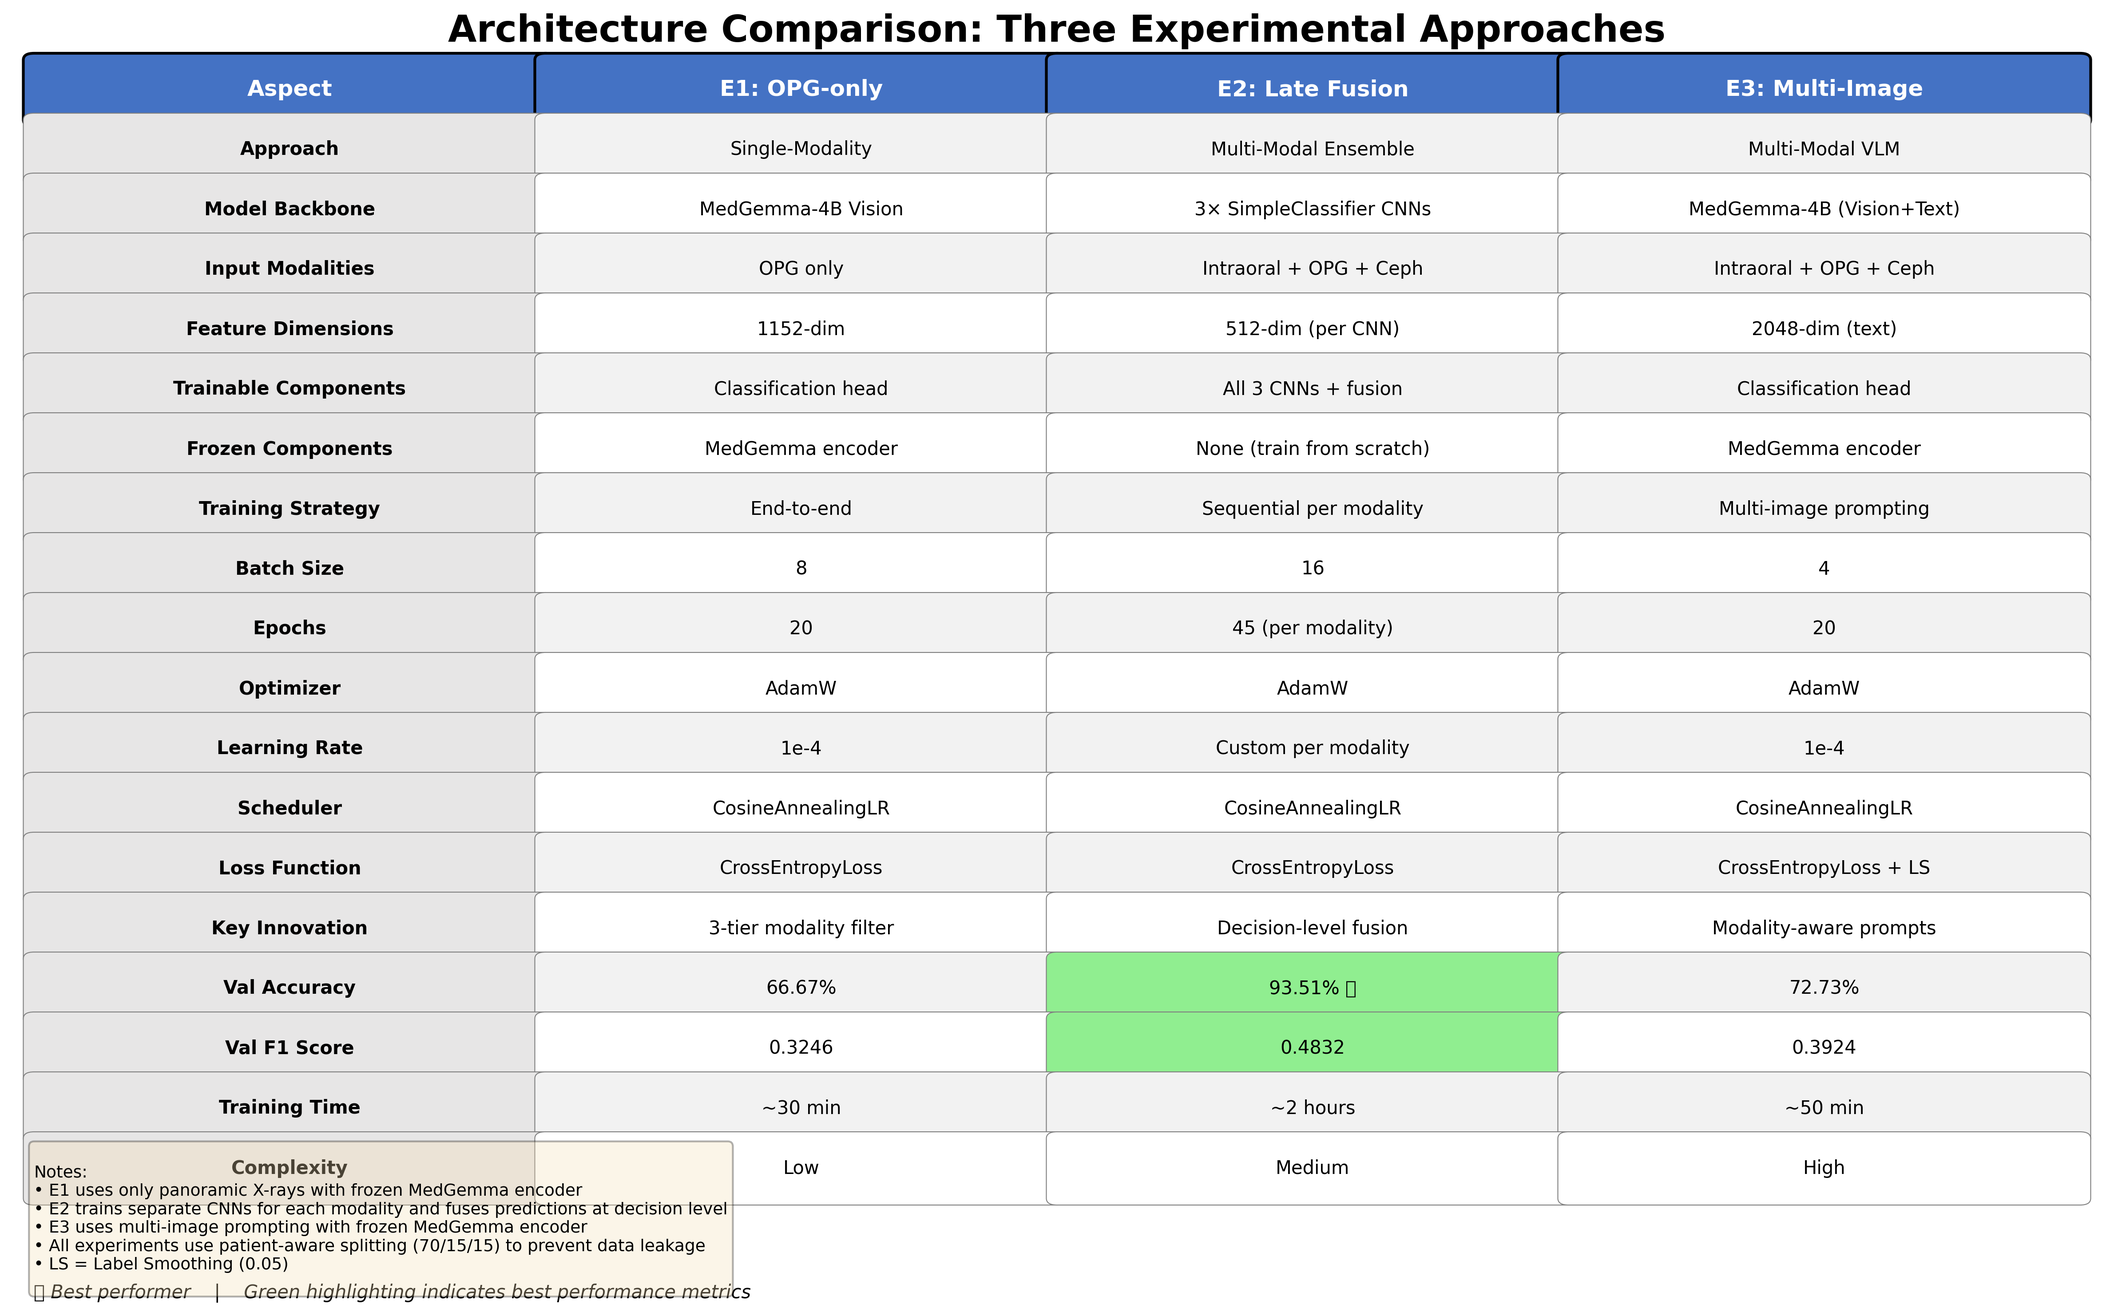
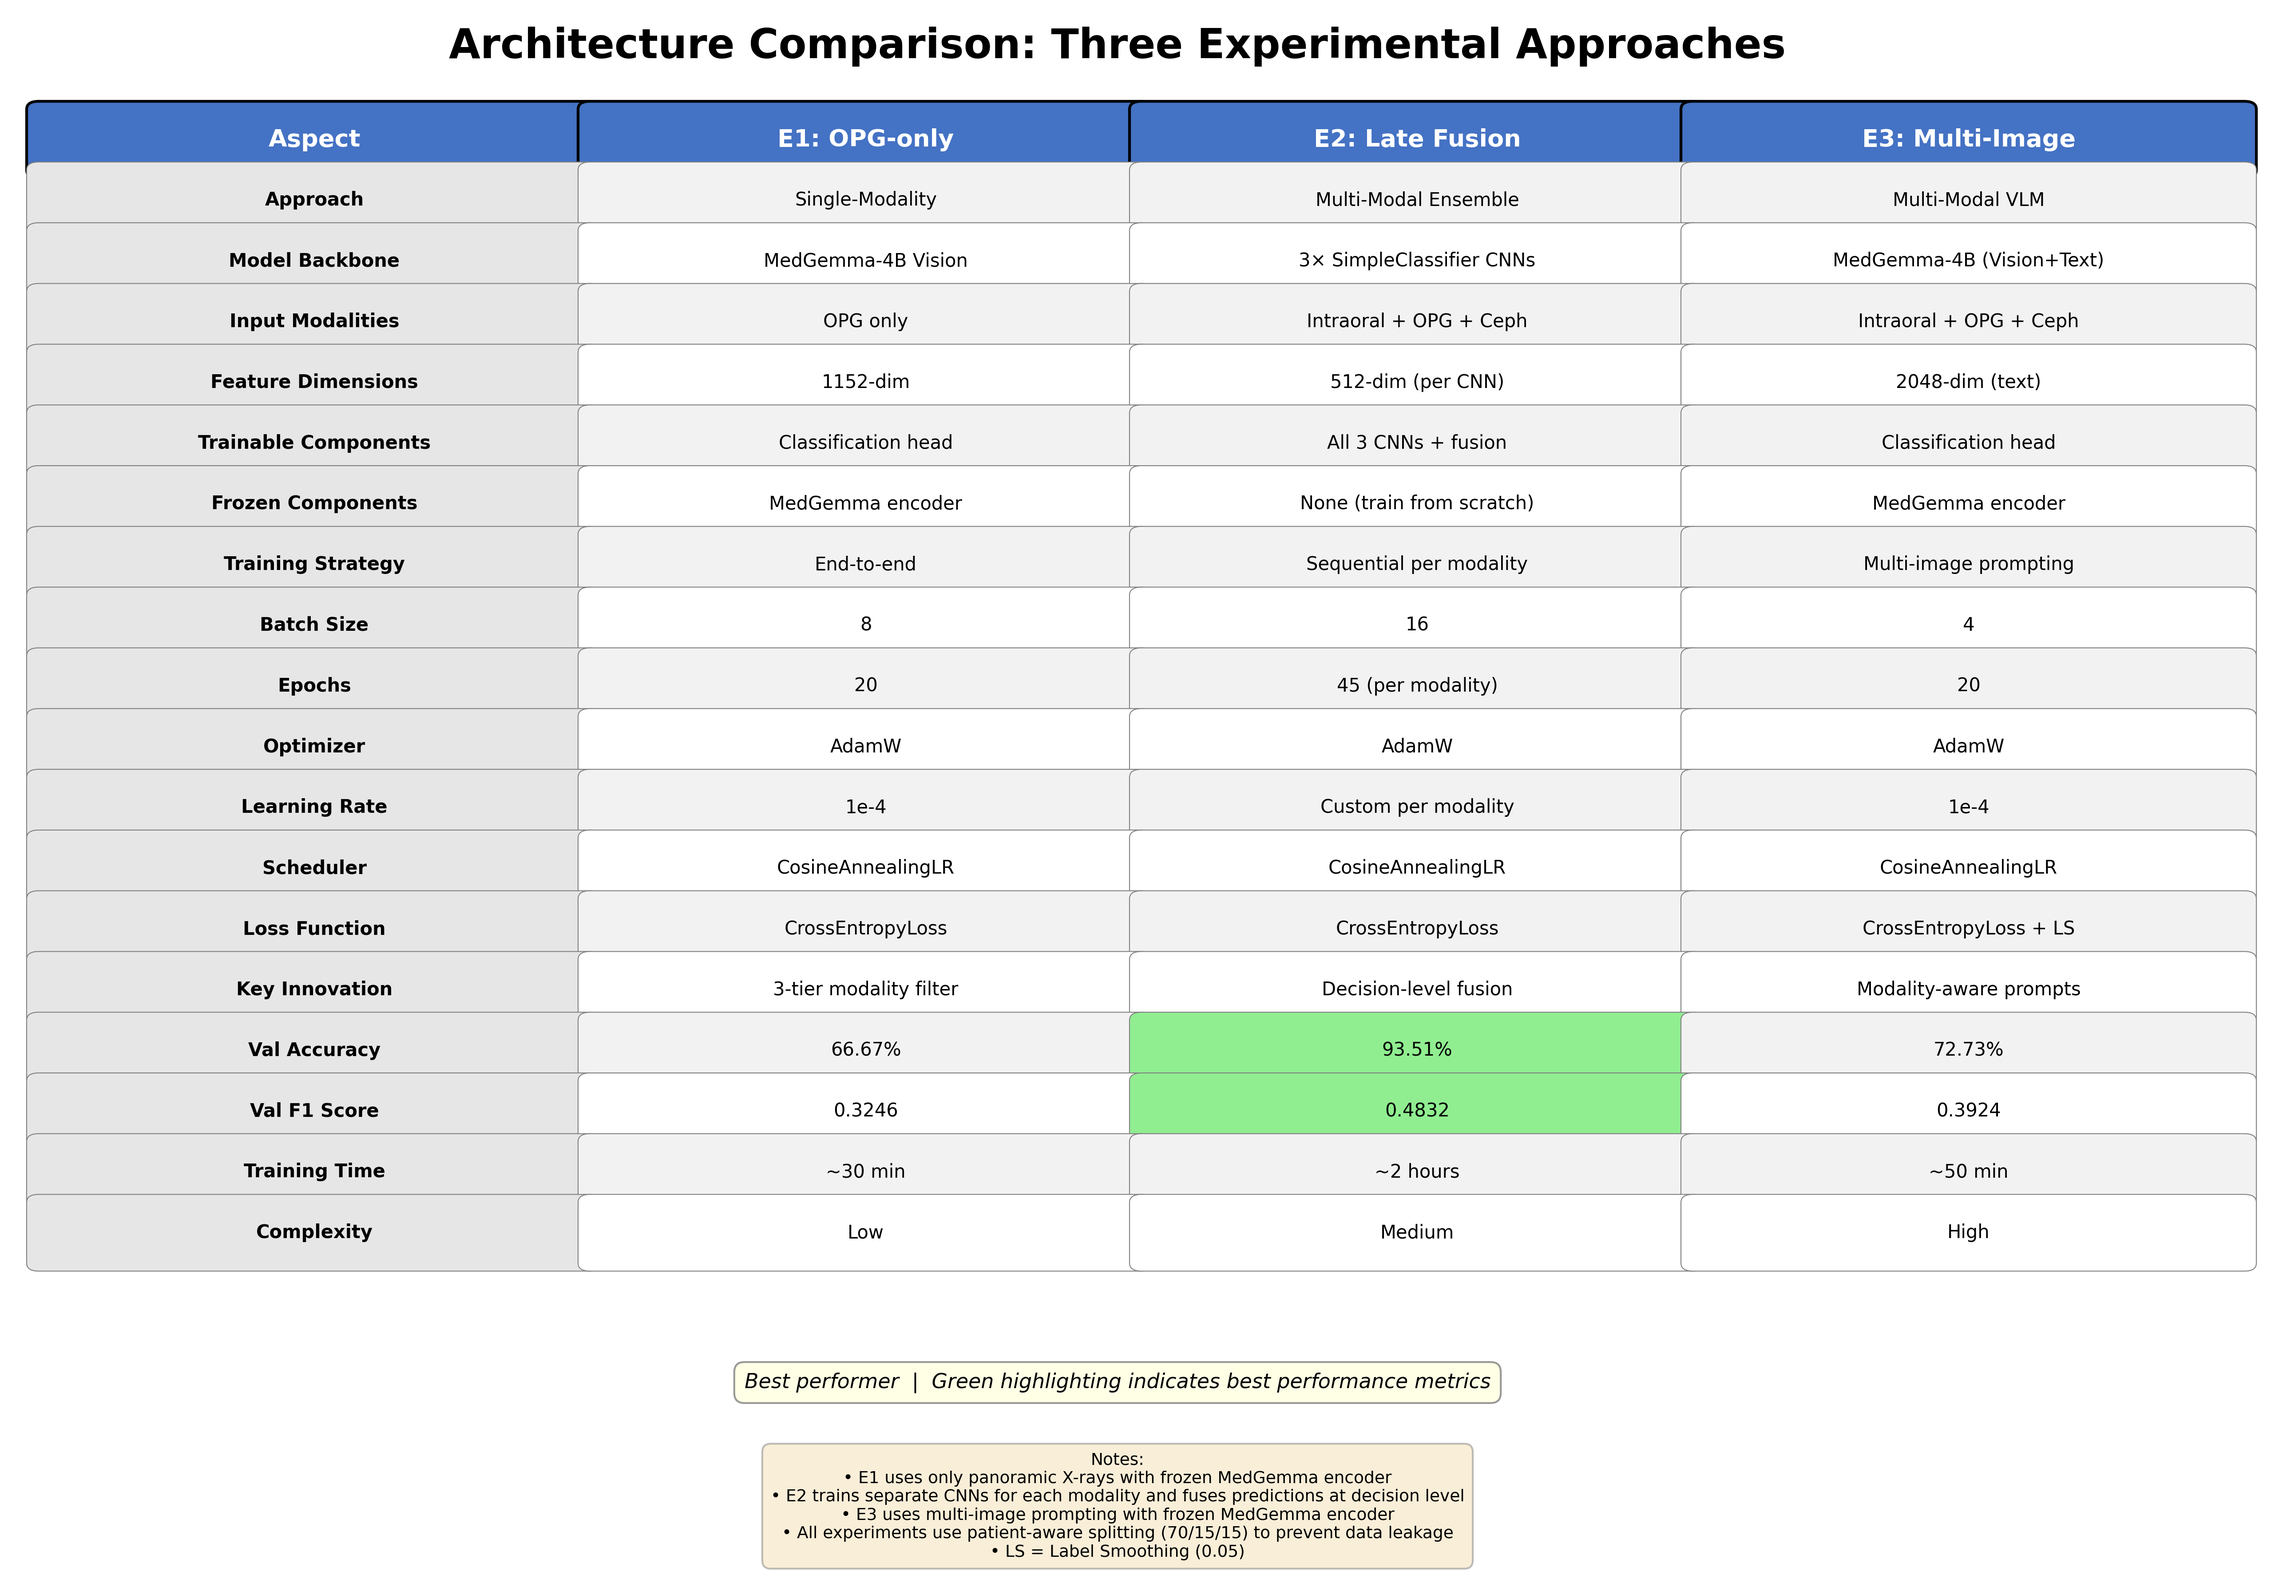
Update architecture comparison table with clean layout
Fixed overlapping legend issue:
- Increased spacing between table and legend
- Better positioning of footer notes
- Improved overall layout and readability
- No overlapping elements

Table size: 18 aspects × 4 columns (Aspect + 3 experiments)

Changed region(s): [[0.0, 0.0, 0.9947, 0.9929], [0.8082, 0.4654, 0.9015, 0.8067], [0.3419, 0.4654, 0.4352, 0.8067]]

diff --git a/create_clean_architecture_table.py b/create_clean_architecture_table.py
@@ -1,0 +1,238 @@
+"""
+Create a clean architecture comparison table without overlapping elements.
+"""
+
+import matplotlib.pyplot as plt
+from matplotlib.patches import FancyBboxPatch
+import numpy as np
+
+# Set style
+plt.rcParams['font.family'] = 'DejaVu Sans'
+plt.rcParams['font.size'] = 11
+
+fig = plt.figure(figsize=(18, 12))
+ax = fig.add_subplot(111)
+ax.axis('off')
+
+# Title
+fig.text(0.5, 0.97, 'Architecture Comparison: Three Experimental Approaches',
+         ha='center', fontsize=22, fontweight='bold')
+
+# Define comparison data
+comparison_data = {
+    'Aspect': [
+        'Approach',
+        'Model Backbone',
+        'Input Modalities',
+        'Feature Dimensions',
+        'Trainable Components',
+        'Frozen Components',
+        'Training Strategy',
+        'Batch Size',
+        'Epochs',
+        'Optimizer',
+        'Learning Rate',
+        'Scheduler',
+        'Loss Function',
+        'Key Innovation',
+        'Val Accuracy',
+        'Val F1 Score',
+        'Training Time',
+        'Complexity'
+    ],
+    'E1: OPG-only Baseline': [
+        'Single-Modality',
+        'MedGemma-4B Vision',
+        'OPG only',
+        '1152-dim',
+        'Classification head',
+        'MedGemma encoder',
+        'End-to-end',
+        '8',
+        '20',
+        'AdamW',
+        '1e-4',
+        'CosineAnnealingLR',
+        'CrossEntropyLoss',
+        '3-tier modality filter',
+        '66.67%',
+        '0.3246',
+        '~30 min',
+        'Low'
+    ],
+    'E2: Late Fusion': [
+        'Multi-Modal Ensemble',
+        '3× SimpleClassifier CNNs',
+        'Intraoral + OPG + Ceph',
+        '512-dim (per CNN)',
+        'All 3 CNNs + fusion',
+        'None (train from scratch)',
+        'Sequential per modality',
+        '16',
+        '45 (per modality)',
+        'AdamW',
+        'Custom per modality',
+        'CosineAnnealingLR',
+        'CrossEntropyLoss',
+        'Decision-level fusion',
+        '93.51%',
+        '0.4832',
+        '~2 hours',
+        'Medium'
+    ],
+    'E3: Multi-Image Prompting': [
+        'Multi-Modal VLM',
+        'MedGemma-4B (Vision+Text)',
+        'Intraoral + OPG + Ceph',
+        '2048-dim (text)',
+        'Classification head',
+        'MedGemma encoder',
+        'Multi-image prompting',
+        '4',
+        '20',
+        'AdamW',
+        '1e-4',
+        'CosineAnnealingLR',
+        'CrossEntropyLoss + LS',
+        'Modality-aware prompts',
+        '72.73%',
+        '0.3924',
+        '~50 min',
+        'High'
+    ]
+}
+
+# Colors
+header_color = '#4472C4'
+row_colors = ['#F2F2F2', '#FFFFFF']
+highlight_color = '#90EE90'
+aspect_color = '#E7E6E6'
+
+# Table dimensions
+cell_height = 0.038
+cell_width = 0.23
+start_y = 0.90
+start_x = 0.05
+
+# Draw headers
+headers = ['Aspect', 'E1: OPG-only', 'E2: Late Fusion', 'E3: Multi-Image']
+for i, header in enumerate(headers):
+    # Header box
+    box = FancyBboxPatch(
+        (start_x + i * cell_width, start_y),
+        cell_width, cell_height,
+        boxstyle="round,pad=0.005",
+        facecolor=header_color,
+        edgecolor='black',
+        linewidth=1.5,
+        transform=fig.transFigure
+    )
+    fig.add_artist(box)
+
+    # Header text
+    fig.text(
+        start_x + i * cell_width + cell_width/2,
+        start_y + cell_height/2,
+        header,
+        ha='center', va='center',
+        fontsize=13, fontweight='bold',
+        color='white',
+        transform=fig.transFigure
+    )
+
+# Draw data rows
+for row_idx, aspect in enumerate(comparison_data['Aspect']):
+    y_pos = start_y - (row_idx + 1) * cell_height
+
+    # Aspect column
+    box_color = aspect_color
+    box = FancyBboxPatch(
+        (start_x, y_pos),
+        cell_width, cell_height,
+        boxstyle="round,pad=0.005",
+        facecolor=box_color,
+        edgecolor='gray',
+        linewidth=0.5,
+        transform=fig.transFigure
+    )
+    fig.add_artist(box)
+
+    fig.text(
+        start_x + cell_width/2,
+        y_pos + cell_height/2,
+        aspect,
+        ha='center', va='center',
+        fontsize=10, fontweight='bold',
+        transform=fig.transFigure
+    )
+
+    # Data columns
+    for col_idx, exp_name in enumerate(['E1: OPG-only Baseline', 'E2: Late Fusion', 'E3: Multi-Image Prompting']):
+        x_pos = start_x + (col_idx + 1) * cell_width
+        value = comparison_data[exp_name][row_idx]
+
+        # Highlight best performance
+        if aspect == 'Val Accuracy' and '93.51%' in value:
+            box_color = highlight_color
+        elif aspect == 'Val F1 Score' and value == '0.4832':
+            box_color = highlight_color
+        else:
+            box_color = row_colors[row_idx % 2]
+
+        box = FancyBboxPatch(
+            (x_pos, y_pos),
+            cell_width, cell_height,
+            boxstyle="round,pad=0.005",
+            facecolor=box_color,
+            edgecolor='gray',
+            linewidth=0.5,
+            transform=fig.transFigure
+        )
+        fig.add_artist(box)
+
+        # Adjust font size for long text
+        font_size = 9 if len(str(value)) > 25 else 10
+
+        fig.text(
+            x_pos + cell_width/2,
+            y_pos + cell_height/2,
+            value,
+            ha='center', va='center',
+            fontsize=font_size,
+            transform=fig.transFigure
+        )
+
+# Add legend - positioned below the table with more space
+legend_y = start_y - (len(comparison_data['Aspect']) + 1) * cell_height - 0.04
+fig.text(
+    0.5, legend_y,
+    'Best performer  |  Green highlighting indicates best performance metrics',
+    fontsize=11, style='italic', ha='center',
+    transform=fig.transFigure,
+    bbox=dict(boxstyle='round,pad=0.5', facecolor='lightyellow', alpha=0.8, edgecolor='gray')
+)
+
+# Add footer notes - positioned at the bottom
+footer_text = """Notes:
+• E1 uses only panoramic X-rays with frozen MedGemma encoder
+• E2 trains separate CNNs for each modality and fuses predictions at decision level
+• E3 uses multi-image prompting with frozen MedGemma encoder
+• All experiments use patient-aware splitting (70/15/15) to prevent data leakage
+• LS = Label Smoothing (0.05)"""
+
+fig.text(
+    0.5, 0.03,
+    footer_text,
+    fontsize=9,
+    ha='center',
+    verticalalignment='bottom',
+    transform=fig.transFigure,
+    bbox=dict(boxstyle='round,pad=0.5', facecolor='wheat', alpha=0.5, edgecolor='gray')
+)
+
+plt.savefig('visualizations/architecture_comparison_table.png',
+            dpi=300, bbox_inches='tight', facecolor='white', pad_inches=0.2)
+print("✓ Saved: visualizations/architecture_comparison_table.png")
+
+plt.close()
+print("\n✓ Clean architecture comparison table created successfully!")
